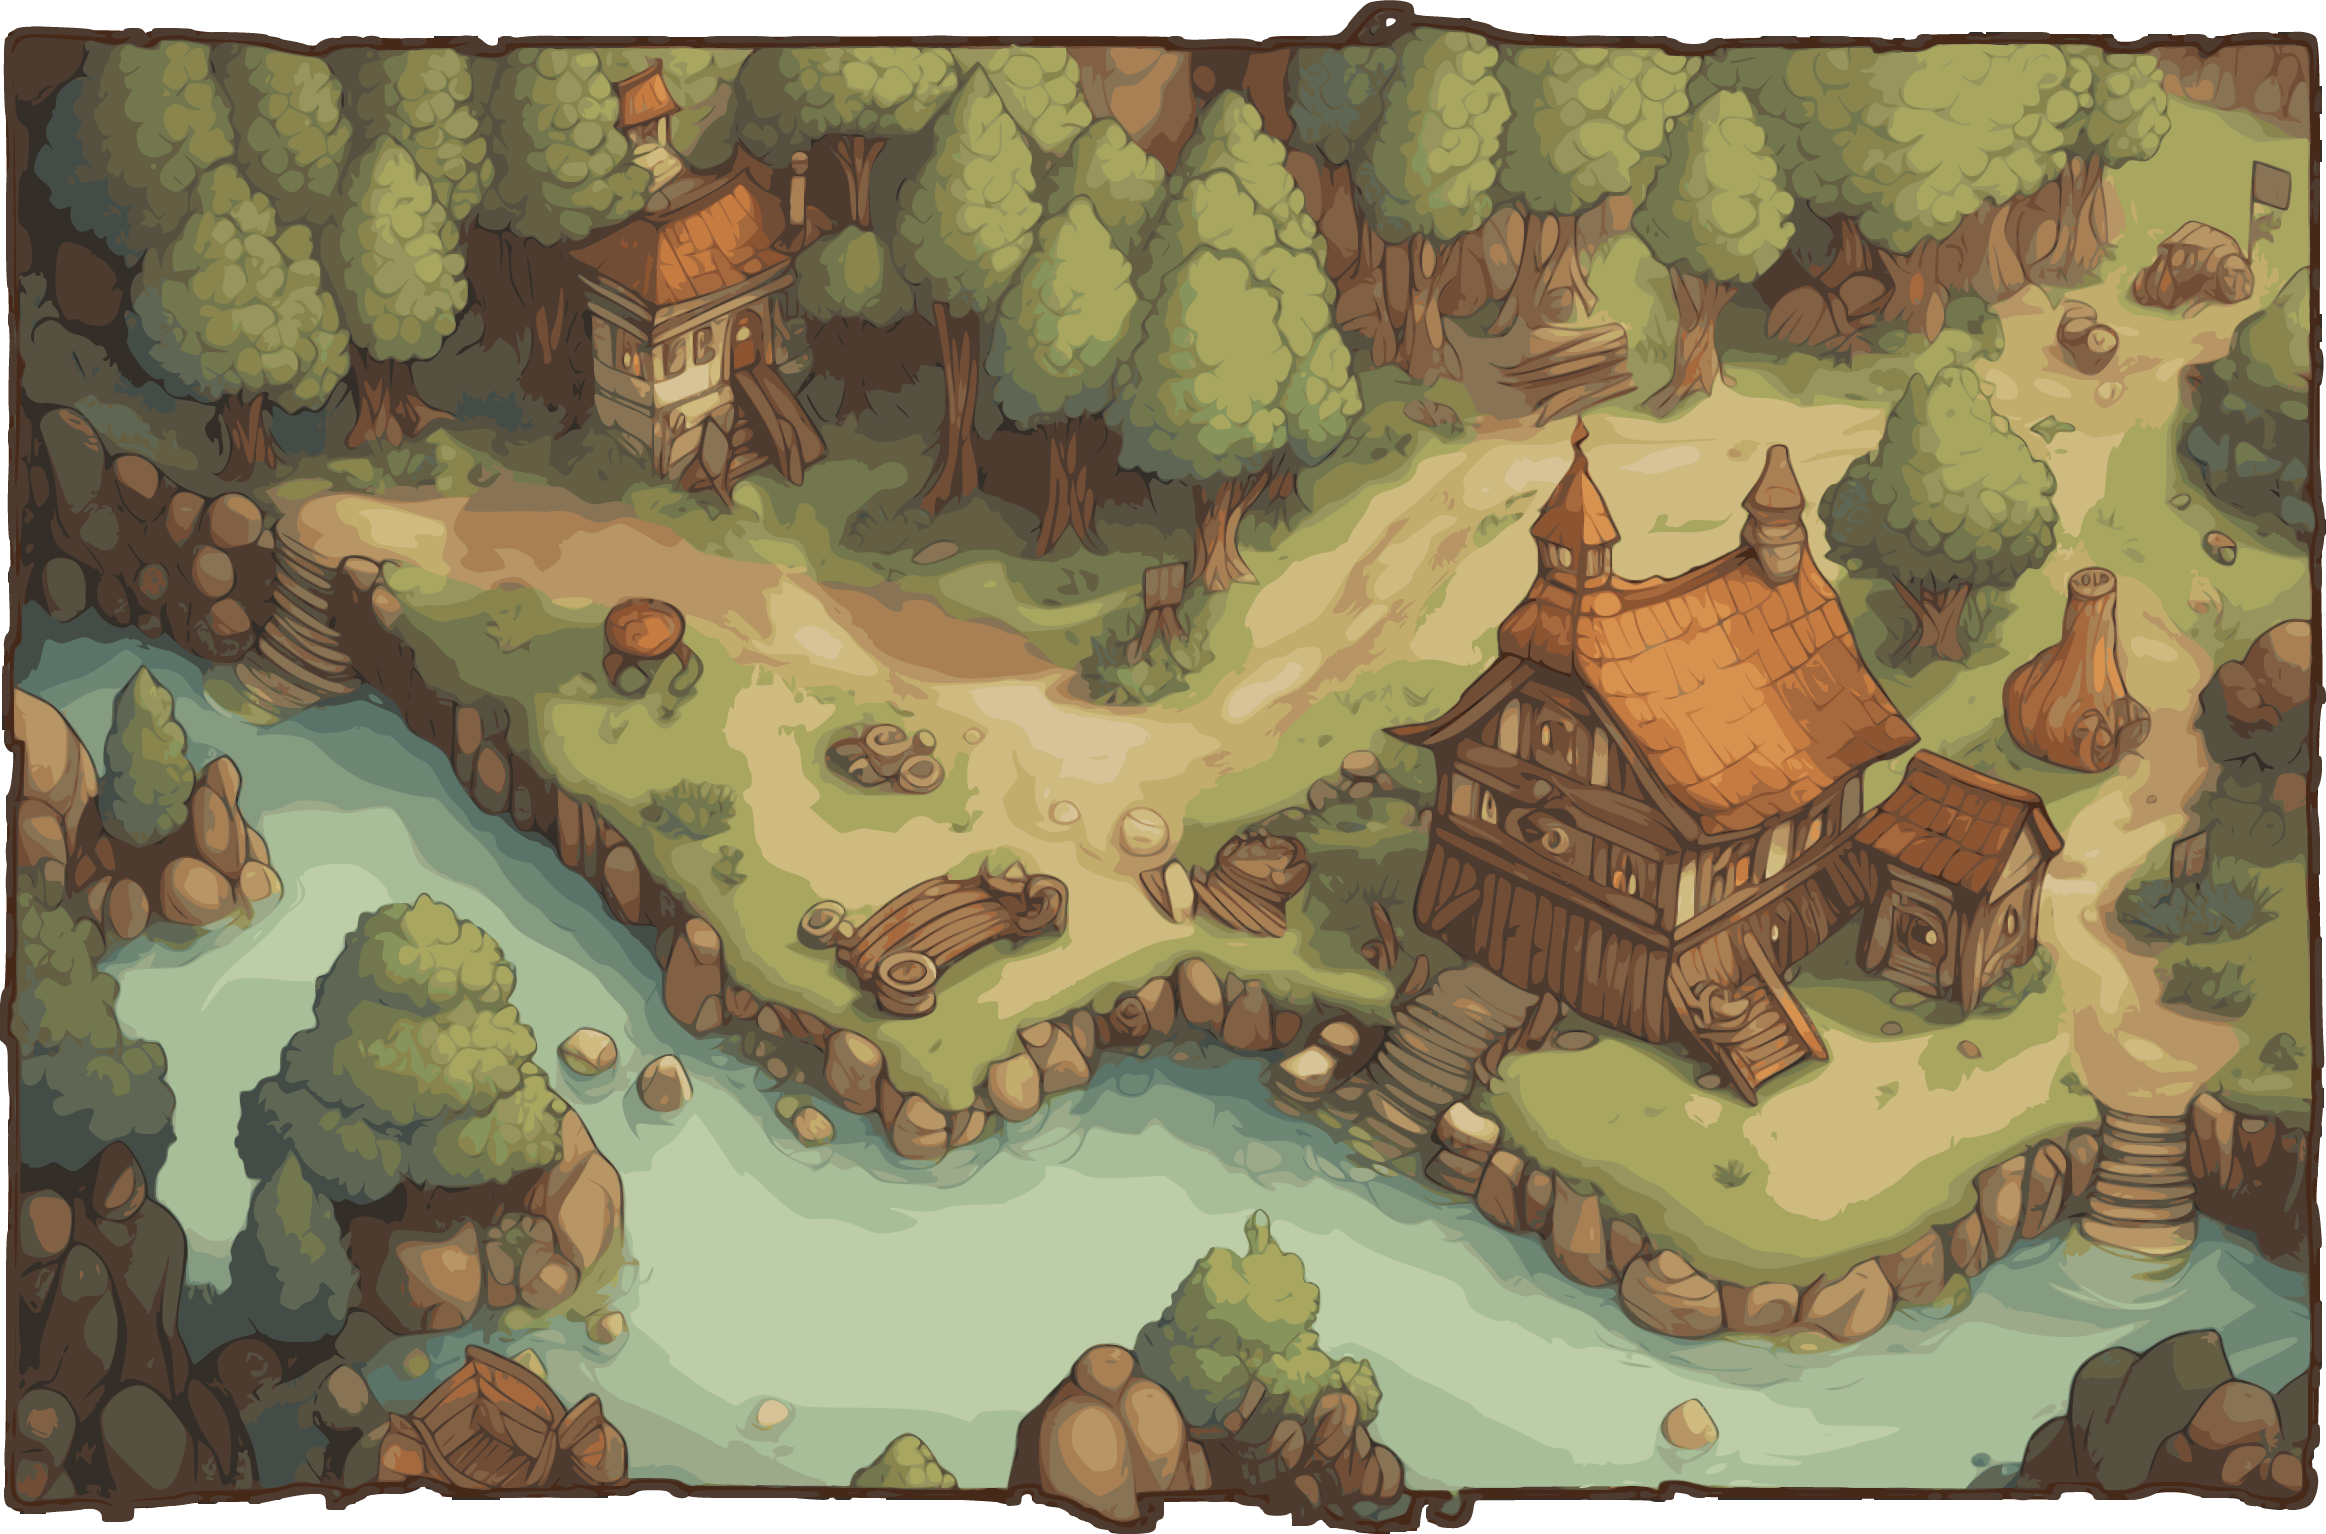
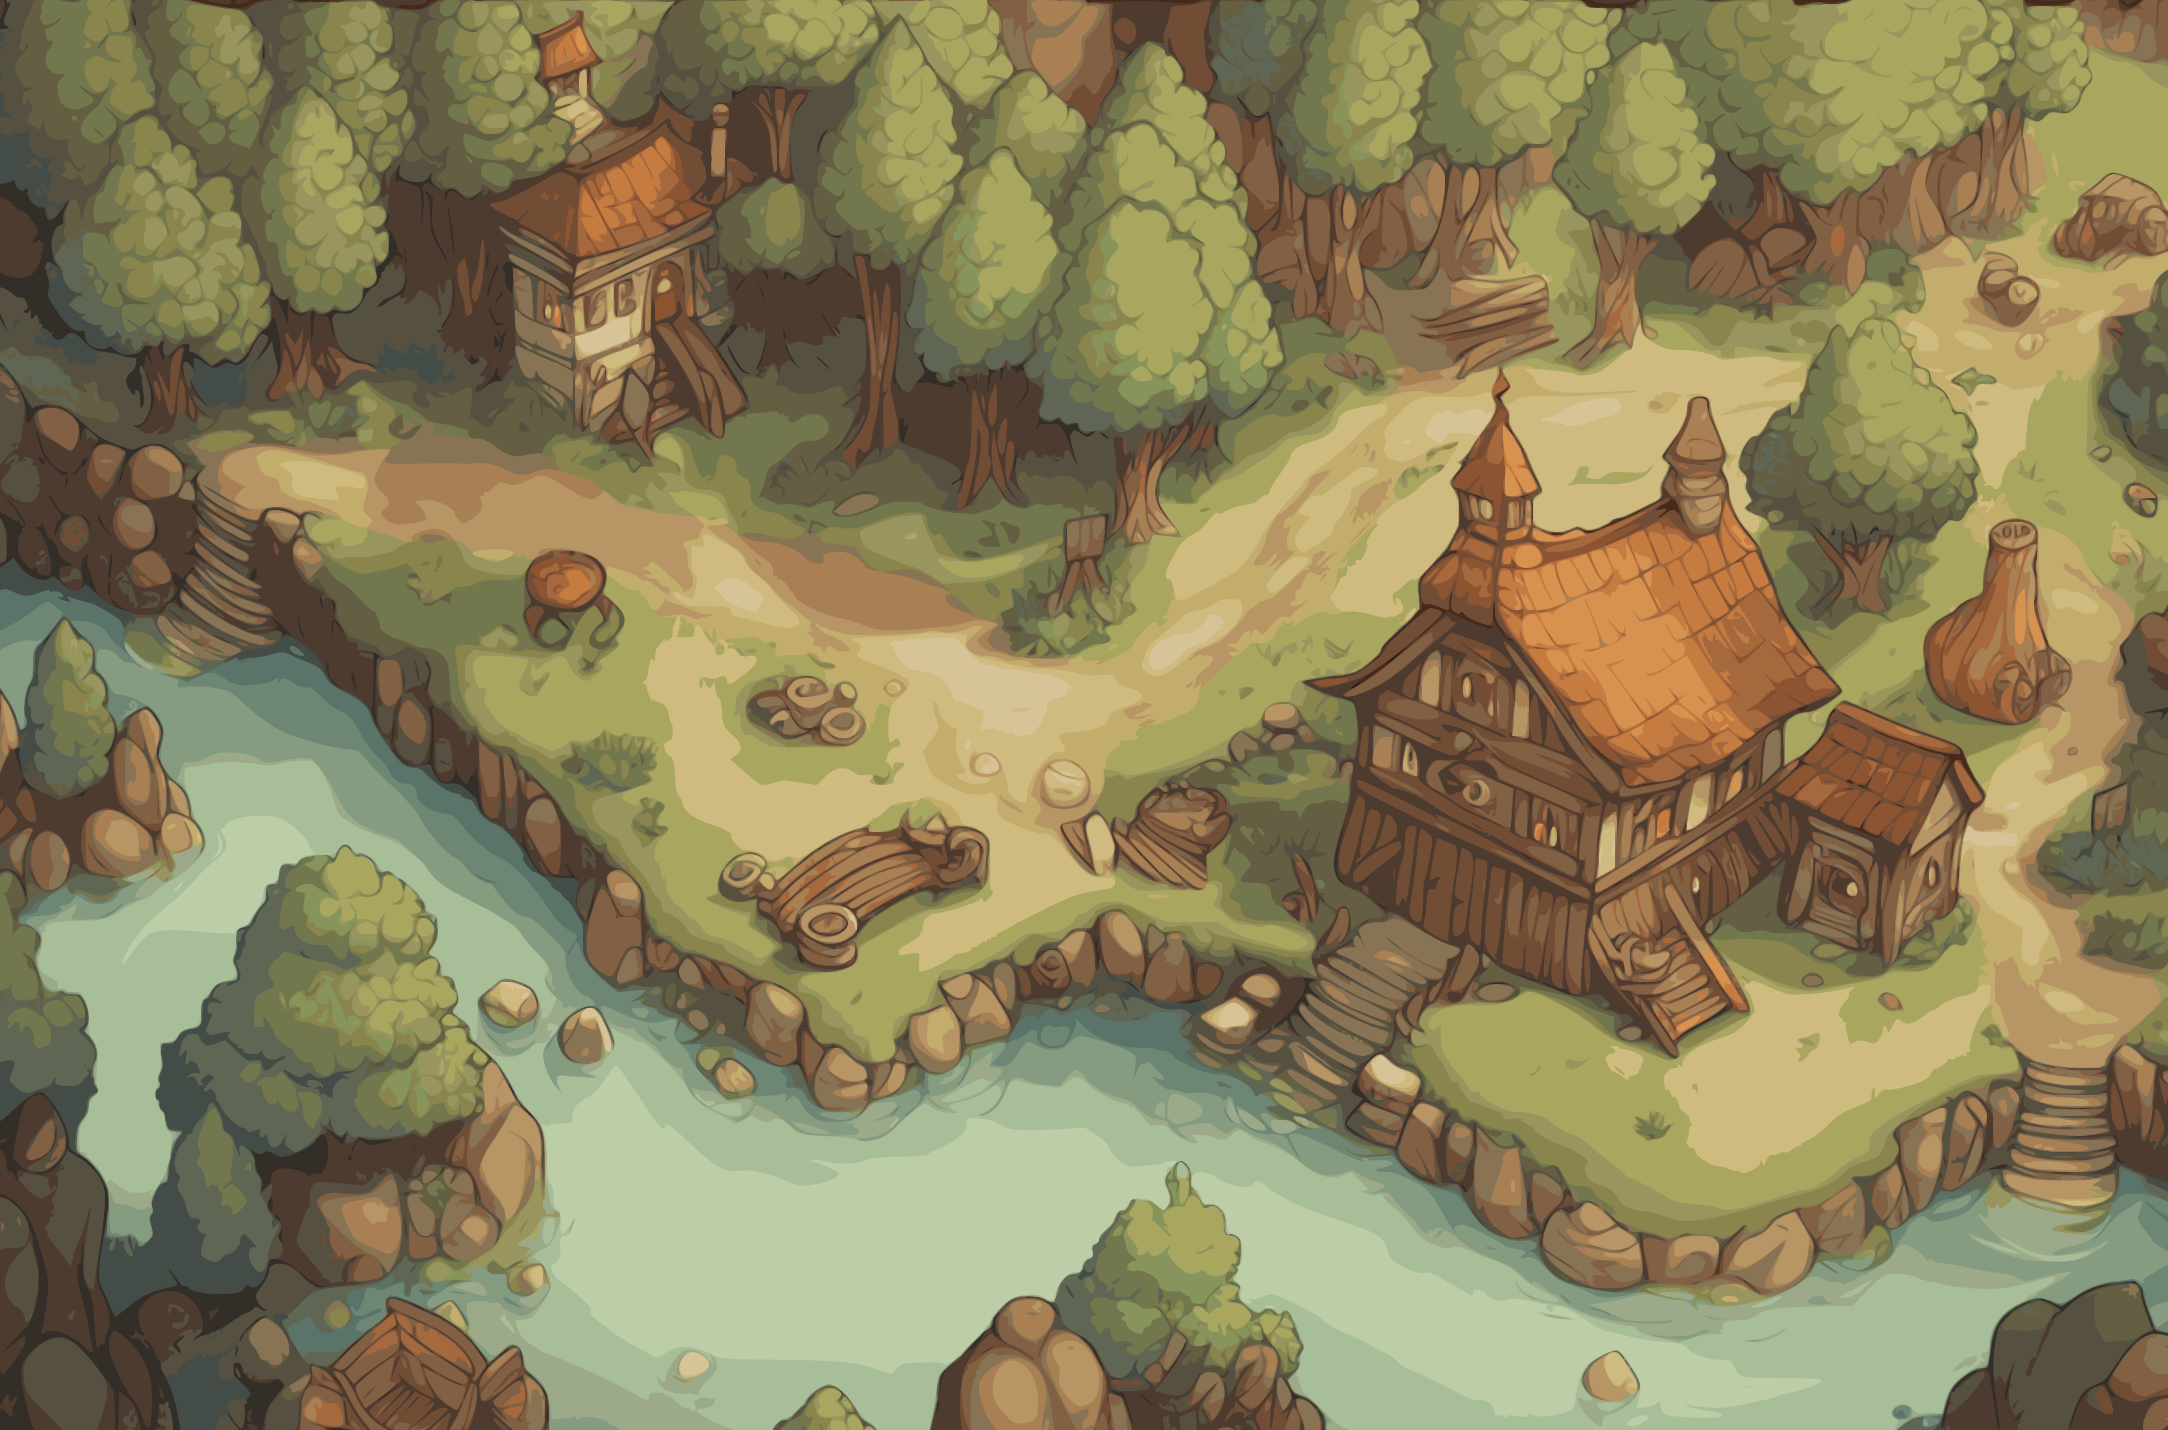
removed game background border. looked cheesy

diff --git a/public/css/style.css b/public/css/style.css
@@ -326,17 +326,17 @@ nav ul li a:hover {
   border-radius: 5px;
   opacity: 0;
   visibility: hidden;
-  transition: opacity 0.3s ease, visibility 0.3s ease, bottom 0.5s cubic-bezier(0.68, -0.55, 0.265, 1.55);
+  transition: opacity 0.3s ease, visibility 0.3s ease,
+    bottom 0.5s cubic-bezier(0.68, -0.55, 0.265, 1.55);
 }
 
 .toast.show {
   bottom: 20px;
   opacity: 1;
   visibility: visible;
-  transition: opacity 0.3s ease, visibility 0.3s ease, bottom 0.5s cubic-bezier(0.68, -0.55, 0.265, 1.55);
+  transition: opacity 0.3s ease, visibility 0.3s ease,
+    bottom 0.5s cubic-bezier(0.68, -0.55, 0.265, 1.55);
 }
-
-
 
 #settings {
   display: grid;
@@ -431,6 +431,8 @@ main {
   top: 50px;
   left: 300px;
   max-width: 82%;
+  border-bottom-left-radius: 10px;
+  border-bottom-right-radius: 10px;
 }
 
 #coveMain {
@@ -451,10 +453,10 @@ main > * {
 }
 
 #inventoryView {
-    display: flex;
-    flex-wrap: wrap;
-    padding: 0;
-    margin: 0;
+  display: flex;
+  flex-wrap: wrap;
+  padding: 0;
+  margin: 0;
 }
 
 .inventory-item-image {
